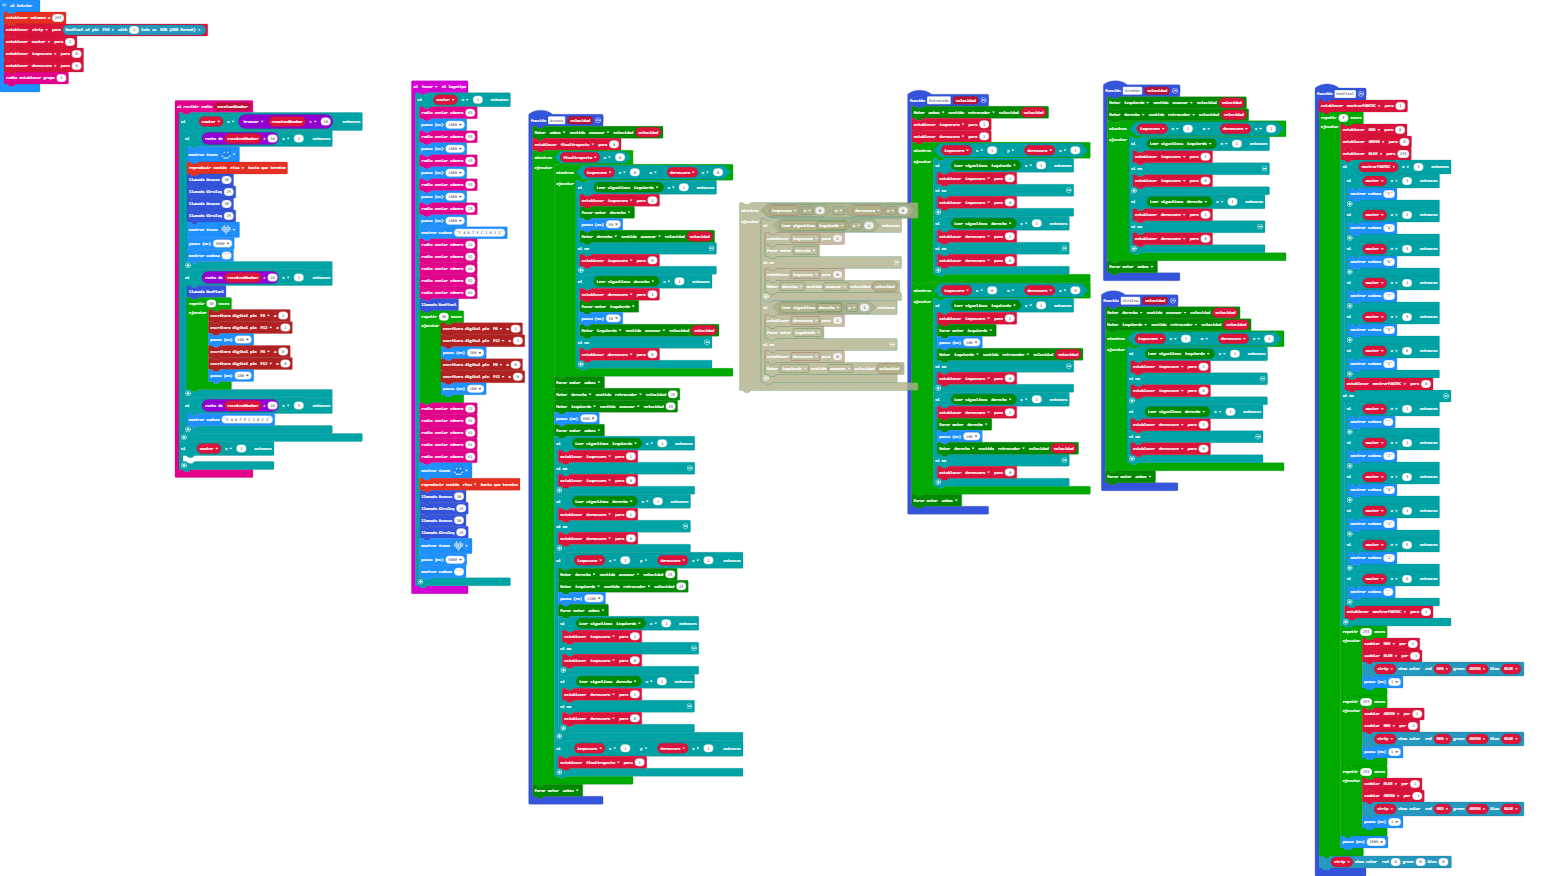
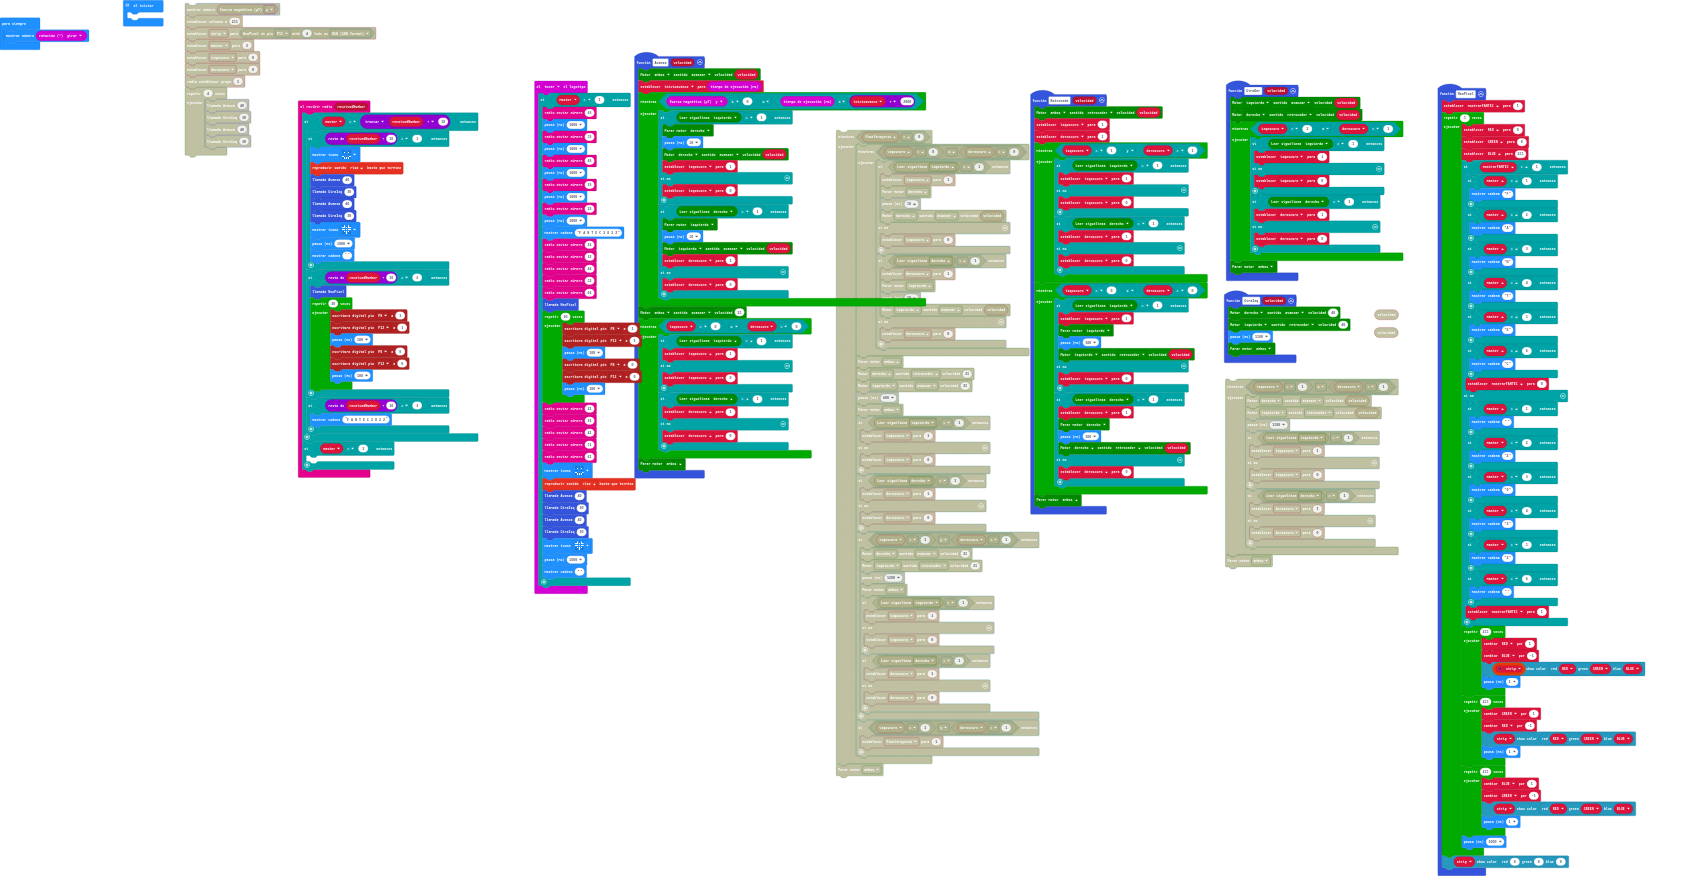
Actualizar main.blocks, main.ts

diff --git a/main.ts b/main.ts
@@ -1,12 +1,20 @@
+let master = 0
+let inicioavance = 0
+let izqoscuro = 0
+let deroscuro = 0
+let mostrarFANTEC = 0
+let RED = 0
+let GREEN = 0
+let BLUE = 0
 radio.onReceivedNumber(function (receivedNumber) {
     if (master == Math.trunc(receivedNumber / 10)) {
         if (receivedNumber % 10 == 1) {
             basic.showIcon(IconNames.Happy)
             soundExpression.giggle.playUntilDone()
-            Avanza(30)
-            GiraIzq(25)
-            Avanza(30)
-            GiraIzq(25)
+            Avanza(40)
+            GiraIzq(30)
+            Avanza(40)
+            GiraIzq(30)
             basic.showIcon(IconNames.Heart)
             basic.pause(5000)
             basic.showString("")
@@ -32,31 +40,27 @@ radio.onReceivedNumber(function (receivedNumber) {
 })
 function Avanza (velocidad: number) {
     maqueen.motorRun(maqueen.Motors.All, maqueen.Dir.CW, velocidad)
-    finaltrayecto = 0
-    while (finaltrayecto == 0) {
-        while (izqoscuro == 0 || deroscuro == 0) {
-            if (maqueen.readPatrol(maqueen.Patrol.PatrolLeft) == 1) {
-                izqoscuro = 1
-                maqueen.motorStop(maqueen.Motors.M2)
-                basic.pause(50)
-                maqueen.motorRun(maqueen.Motors.M2, maqueen.Dir.CW, velocidad)
-            } else {
-                izqoscuro = 0
-            }
-            if (maqueen.readPatrol(maqueen.Patrol.PatrolRight) == 1) {
-                deroscuro = 1
-                maqueen.motorStop(maqueen.Motors.M1)
-                basic.pause(50)
-                maqueen.motorRun(maqueen.Motors.M1, maqueen.Dir.CW, velocidad)
-            } else {
-                deroscuro = 0
-            }
+    inicioavance = input.runningTime()
+    while (input.magneticForce(Dimension.Y) <= 0 || input.runningTime() <= inicioavance + 2000) {
+        if (maqueen.readPatrol(maqueen.Patrol.PatrolLeft) == 1) {
+            maqueen.motorStop(maqueen.Motors.M2)
+            basic.pause(50)
+            maqueen.motorRun(maqueen.Motors.M2, maqueen.Dir.CW, velocidad)
+            izqoscuro = 1
+        } else {
+            izqoscuro = 0
         }
-        maqueen.motorStop(maqueen.Motors.All)
-        maqueen.motorRun(maqueen.Motors.M2, maqueen.Dir.CCW, 25)
-        maqueen.motorRun(maqueen.Motors.M1, maqueen.Dir.CW, 25)
-        basic.pause(600)
-        maqueen.motorStop(maqueen.Motors.All)
+        if (maqueen.readPatrol(maqueen.Patrol.PatrolRight) == 1) {
+            maqueen.motorStop(maqueen.Motors.M1)
+            basic.pause(50)
+            maqueen.motorRun(maqueen.Motors.M1, maqueen.Dir.CW, velocidad)
+            deroscuro = 1
+        } else {
+            deroscuro = 0
+        }
+    }
+    maqueen.motorRun(maqueen.Motors.All, maqueen.Dir.CW, 25)
+    while (izqoscuro == 0 || deroscuro == 0) {
         if (maqueen.readPatrol(maqueen.Patrol.PatrolLeft) == 1) {
             izqoscuro = 1
         } else {
@@ -66,44 +70,14 @@ function Avanza (velocidad: number) {
             deroscuro = 1
         } else {
             deroscuro = 0
-        }
-        if (izqoscuro == 1 && deroscuro == 1) {
-            maqueen.motorRun(maqueen.Motors.M2, maqueen.Dir.CW, 25)
-            maqueen.motorRun(maqueen.Motors.M1, maqueen.Dir.CCW, 25)
-            basic.pause(1200)
-            maqueen.motorStop(maqueen.Motors.All)
-            if (maqueen.readPatrol(maqueen.Patrol.PatrolLeft) == 1) {
-                izqoscuro = 1
-            } else {
-                izqoscuro = 0
-            }
-            if (maqueen.readPatrol(maqueen.Patrol.PatrolRight) == 1) {
-                deroscuro = 1
-            } else {
-                deroscuro = 0
-            }
-        }
-        if (izqoscuro == 1 && deroscuro == 1) {
-            finaltrayecto = 1
         }
     }
     maqueen.motorStop(maqueen.Motors.All)
 }
 function GiraIzq (velocidad: number) {
-    maqueen.motorRun(maqueen.Motors.M2, maqueen.Dir.CW, velocidad)
-    maqueen.motorRun(maqueen.Motors.M1, maqueen.Dir.CCW, velocidad)
-    while (izqoscuro == 1 || deroscuro == 1) {
-        if (maqueen.readPatrol(maqueen.Patrol.PatrolLeft) == 1) {
-            izqoscuro = 1
-        } else {
-            izqoscuro = 0
-        }
-        if (maqueen.readPatrol(maqueen.Patrol.PatrolRight) == 1) {
-            deroscuro = 1
-        } else {
-            deroscuro = 0
-        }
-    }
+    maqueen.motorRun(maqueen.Motors.M2, maqueen.Dir.CW, 40)
+    maqueen.motorRun(maqueen.Motors.M1, maqueen.Dir.CCW, 40)
+    basic.pause(1500)
     maqueen.motorStop(maqueen.Motors.All)
 }
 function GiroDer (velocidad: number) {
@@ -193,16 +167,17 @@ input.onLogoEvent(TouchButtonEvent.Touched, function () {
         radio.sendNumber(61)
         basic.showIcon(IconNames.Happy)
         soundExpression.giggle.playUntilDone()
-        Avanza(30)
-        GiraIzq(25)
-        Avanza(30)
-        GiraIzq(25)
+        Avanza(40)
+        GiraIzq(30)
+        Avanza(40)
+        GiraIzq(30)
         basic.showIcon(IconNames.Heart)
         basic.pause(5000)
         basic.showString("")
     }
 })
 function NeoPixel () {
+    let strip: neopixel.Strip = null
     mostrarFANTEC = 1
     for (let index = 0; index < 5; index++) {
         RED = 0
@@ -276,18 +251,6 @@ function NeoPixel () {
 // Mensajes:
 // 21,22,23, etc -> mensajes 1,2,3 al dispositivo 2
 // 31,32,33, etc -> mensajes 1,2,3 al dispositivo 3
-let BLUE = 0
-let GREEN = 0
-let RED = 0
-let mostrarFANTEC = 0
-let finaltrayecto = 0
-let deroscuro = 0
-let izqoscuro = 0
-let master = 0
-let strip: neopixel.Strip = null
-music.setVolume(255)
-strip = neopixel.create(DigitalPin.P15, 4, NeoPixelMode.RGB)
-master = 2
-izqoscuro = 0
-deroscuro = 0
-radio.setGroup(1)
+basic.forever(function () {
+    basic.showNumber(input.rotation(Rotation.Roll))
+})
